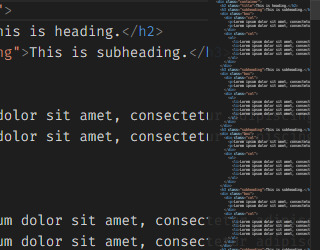
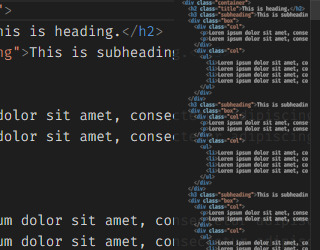
Enlarge the minimap in the render characters images

Changed region(s): [[0.5312, 0.0, 0.9688, 1.0], [0.5312, 0.196, 0.5625, 0.252]]

diff --git a/.claude/skills/capture-help-images/SKILL.md b/.claude/skills/capture-help-images/SKILL.md
@@ -155,7 +155,8 @@ spec の主な項目（全項目は `lib/capture.mjs` の冒頭）:
 
 次の画像は、その画像が説明する設定のほかにも、初期値と異なる設定で撮っている。撮り直すときも同じ設定にする。
 
-- **`minimap/max-column.gif`、`minimap/render-characters_1.jpg`・`_2.jpg`、`minimap/show-slider_1.jpg`・`_2.gif`、`minimap/side_1.jpg`・`_2.jpg`:** `minimap.scale: 2`。初期値の1では、元画像よりミニマップの文字が小さく読めないため。
+- **`minimap/max-column.gif`、`minimap/show-slider_1.jpg`・`_2.gif`、`minimap/side_1.jpg`・`_2.jpg`:** `minimap.scale: 2`。初期値の1では、元画像よりミニマップの文字が小さく読めないため。
+- **`minimap/render-characters_1.jpg`・`_2.jpg`:** `minimap.scale: 3`。理由は同上。この2枚は文字の描き方の違いを見せるので、さらに大きくして元画像に近づけている。
 - **`scrollbar/arrow-size_1.jpg`・`_2.jpg`、`scrollbar/horizontal-has-arrows_1.jpg`・`_2.jpg`、`scrollbar/vertical-has-arrows_1.jpg`・`_2.jpg`、`scrollbar/horizontal_2.jpg`・`_3.jpg`、`scrollbar/vertical_2.jpg`・`_3.jpg`:** `scrollbar.verticalScrollbarSize: 20`、`scrollbar.horizontalScrollbarSize: 20`。元画像のスクロールバーは20pxで、初期値の10pxではスクロールバーや矢印のエリアが小さすぎるため。
 - **`scrollbar/vertical_1.gif`、`scrollbar/scroll-by-page.gif`、`overview-ruler-border_1.jpg`・`_2.jpg`:** `scrollbar.verticalScrollbarSize: 20`。理由は同上。
 - **`scrollbar/horizontal_1.gif`、`scroll-beyond-last-column_1.gif`・`_2.gif`:** `scrollbar.horizontalScrollbarSize: 20`。理由は同上。
